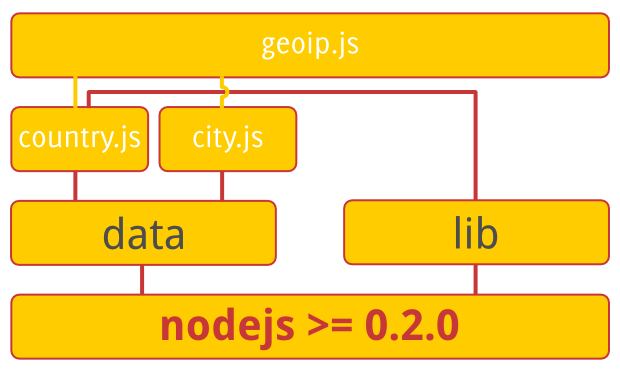
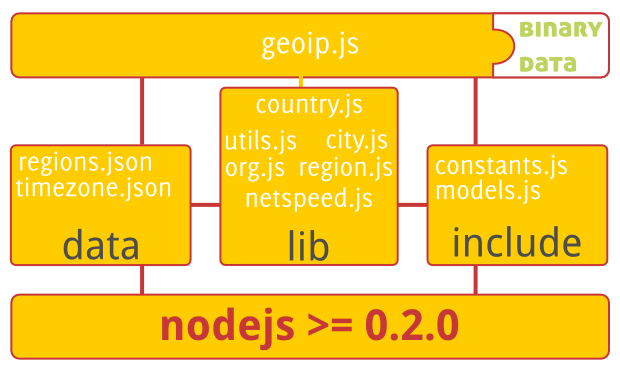
pumped version v0.2.0

Changed region(s): [[0.0, 0.207, 1.0, 0.7392], [0.7661, 0.0296, 0.9806, 0.2366], [0.0, 0.6801, 0.0306, 0.7097]]

diff --git a/README.md b/README.md
@@ -36,6 +36,14 @@ Get geolocation information based on domain or IP address.
 
 2, Hidden some unsafe an useless funcions.  
 
+####v0.2.0, 2010-12-09:
+
+1, added org, region, netspeed submodule.
+
+2, added data type check in every submodule
+
+3, re-factoring whloe project.
+
 ###Data
 
 Befor you can use this package, you need to download or buy some data from [www.maxmind.com](http://www.maxmind.com/app/ip-location).
@@ -79,6 +87,7 @@ GeoIP City Lite Edition [Download](http://geolite.maxmind.com/download/geoip/dat
       });
 
 * Close the opened file.
+
       geoip.close(data);
 
 ####City Information
@@ -109,6 +118,7 @@ GeoIP City Lite Edition [Download](http://geolite.maxmind.com/download/geoip/dat
 ####Organization Information
 
 * Open the GeoIPOrg.dat first.
+
       var org_data = geoip.open('/path/to/GeoIPOrg.dat');
 
       geoip.Org.org_by_addr(data, '8.8.8.8');
@@ -125,6 +135,7 @@ GeoIP City Lite Edition [Download](http://geolite.maxmind.com/download/geoip/dat
 ####Region Information
 
 * Open the GeoIPRegion.dat first.
+
       var region_data = geoip.open('/path/to/GeoIPRegion.dat');
 
       geoip.Region.region_by_addr(region_data, '8.8.8.8');  // prints 'US,CO'
@@ -134,7 +145,8 @@ GeoIP City Lite Edition [Download](http://geolite.maxmind.com/download/geoip/dat
 
 ####NetSpeed Information
 
-* Open the GeoIPNetSpeed.dat first
+* Open the GeoIPNetSpeed.dat first.
+
       var netspeed_data = geoip.open('/path/go/GeoIPNetSpeed.dat');
 
       geoip.NetSpeed.speed_by_addr(netspeed_data, '8.8.8.8');  // prints 'Dailup'
